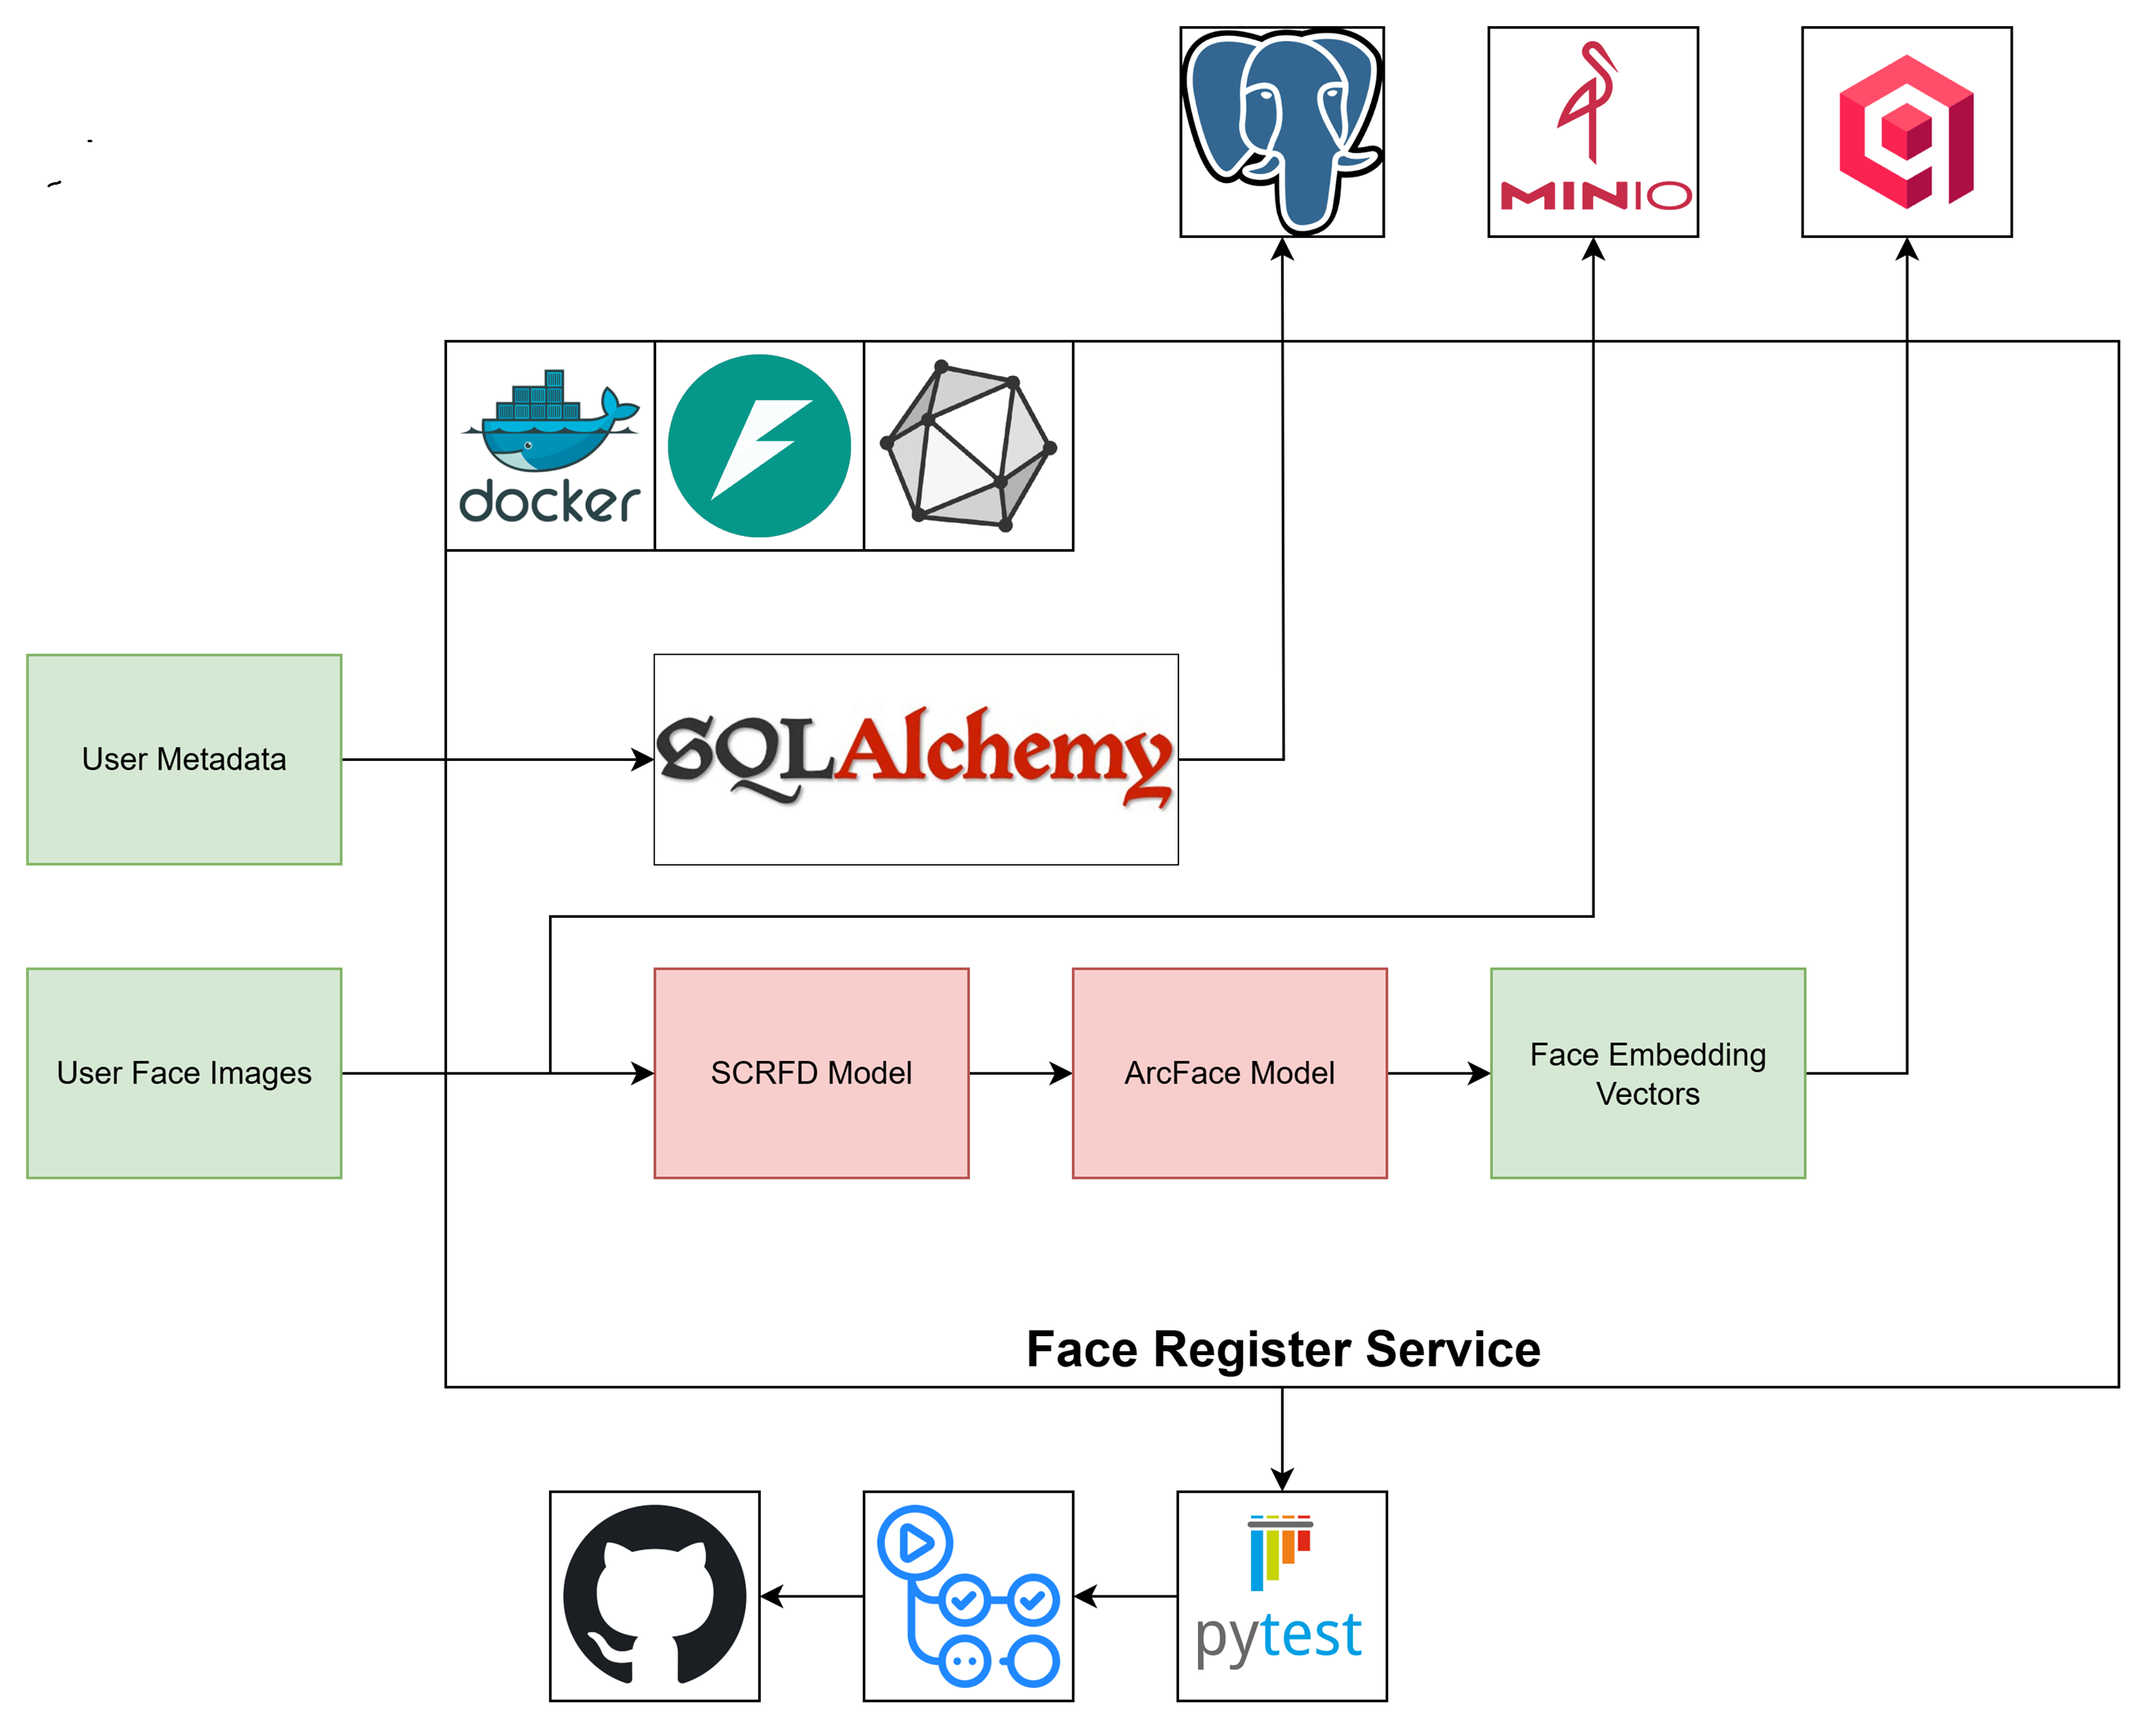
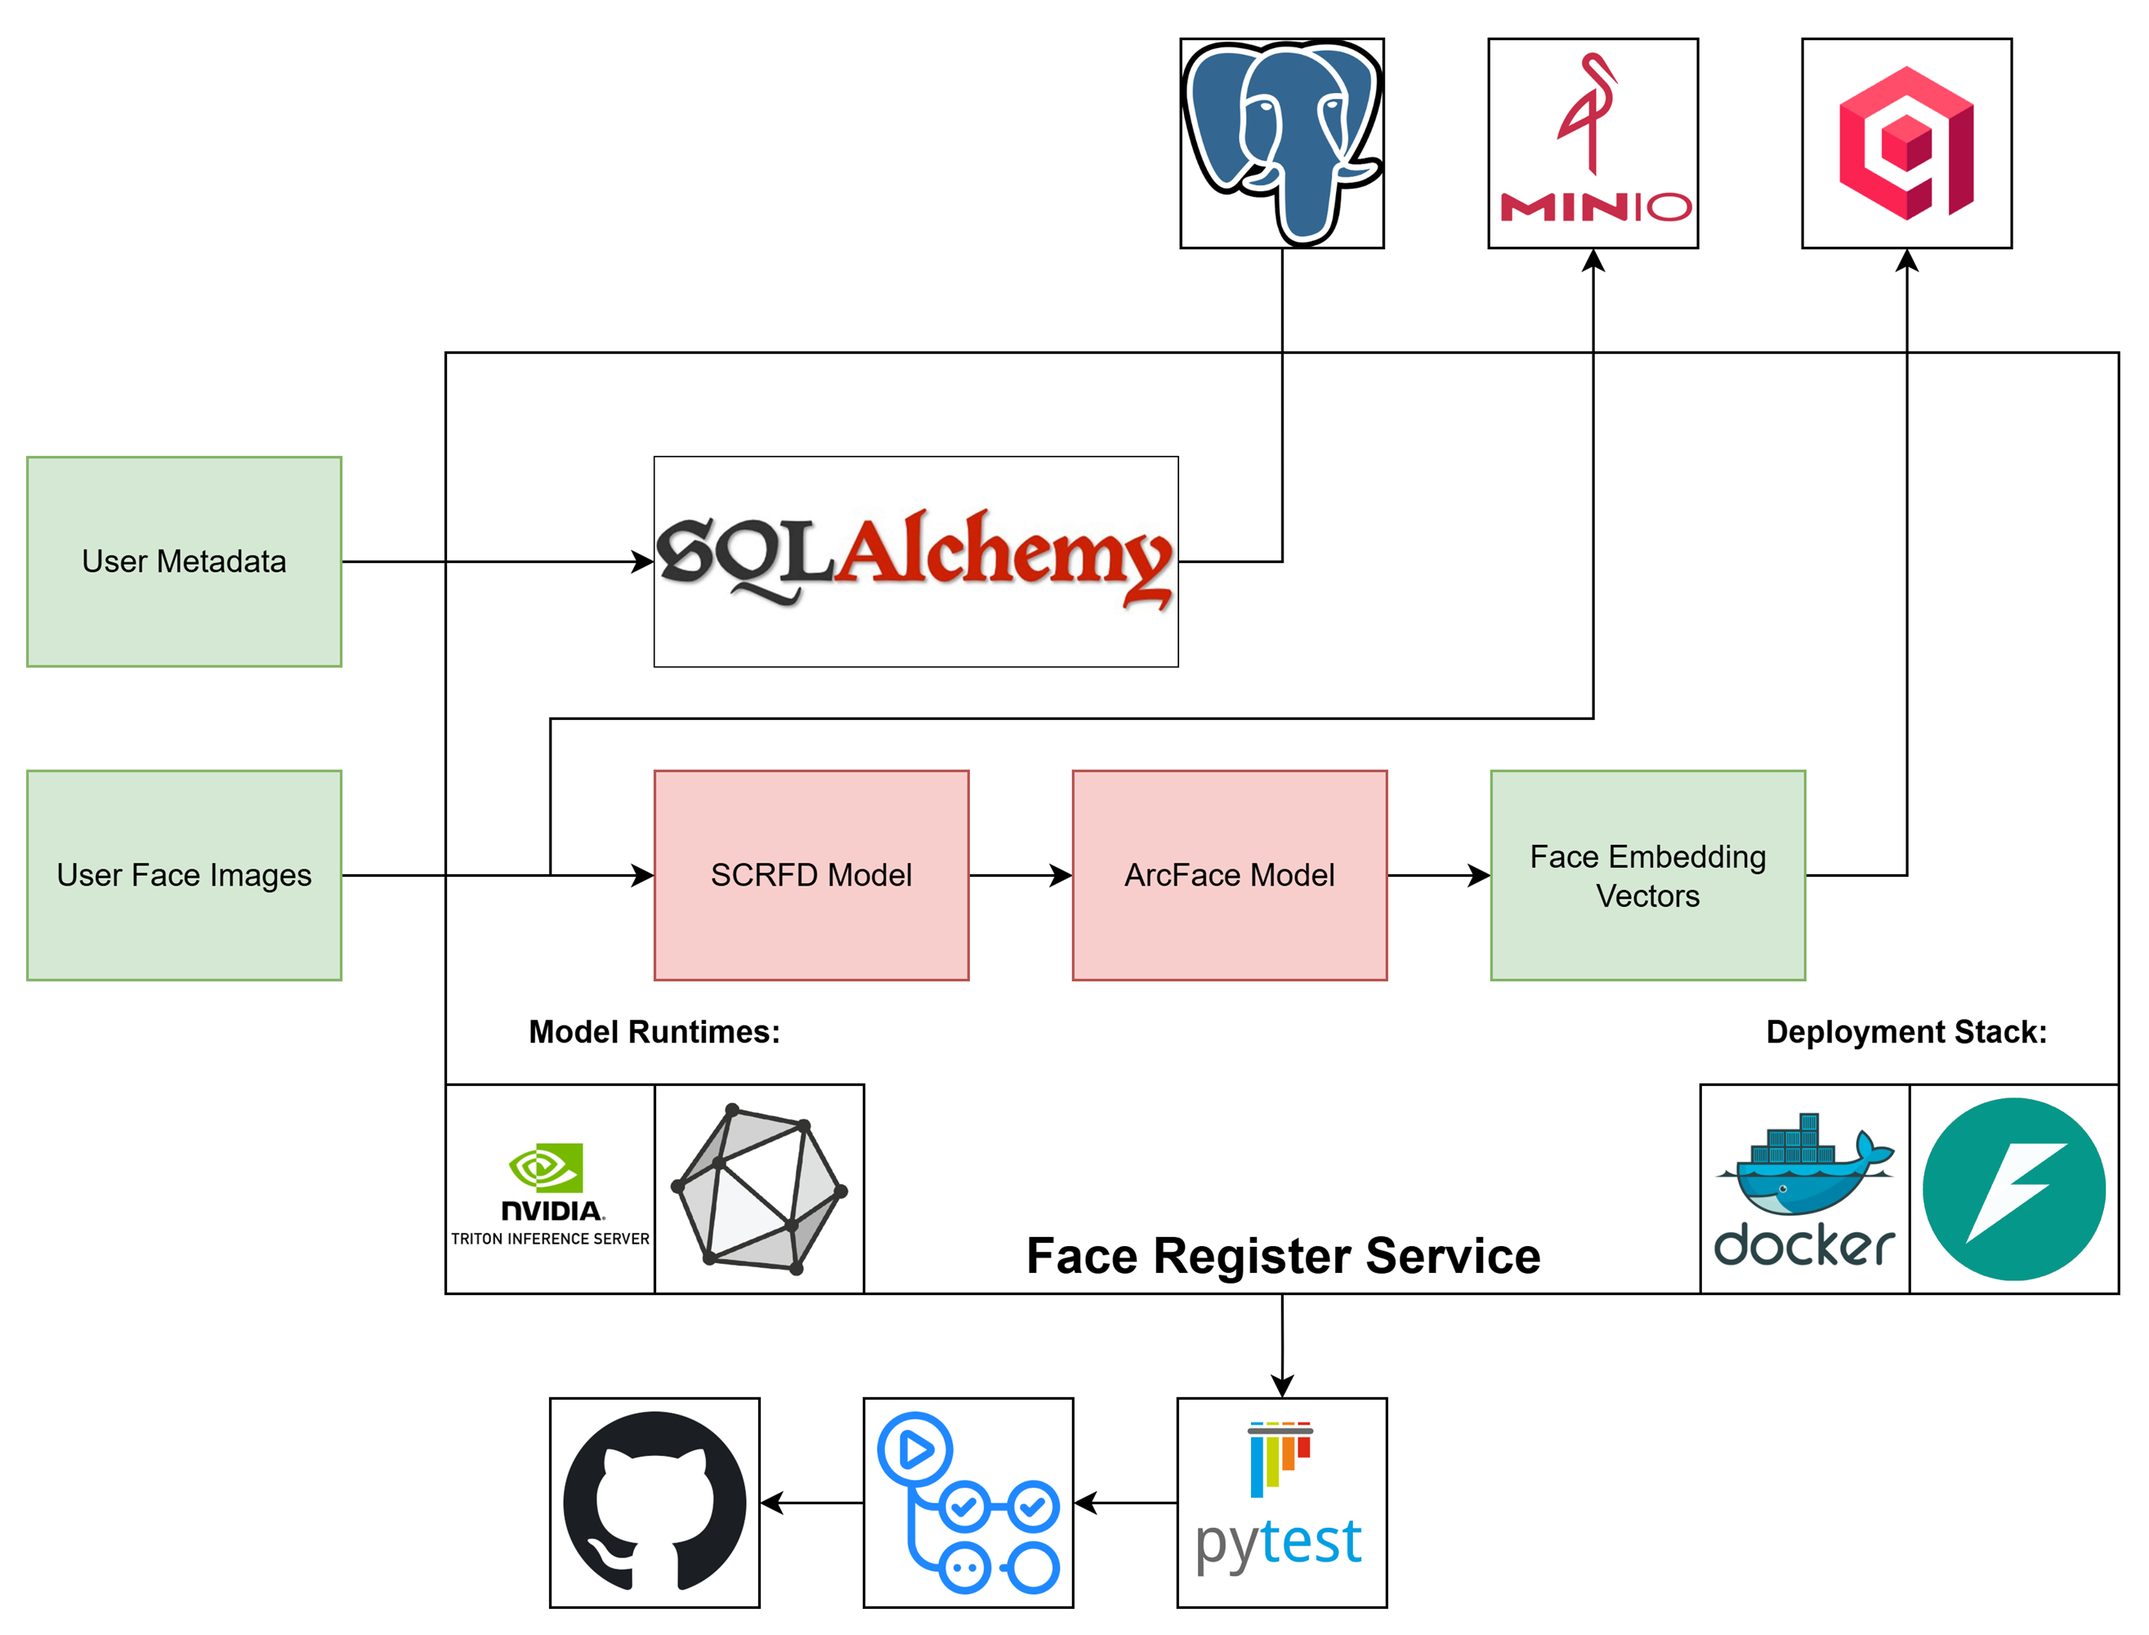
chore: update README

diff --git a/README.md b/README.md
@@ -13,7 +13,7 @@ A face registration system for capturing user metadata and storing it in the dat
 
 Face Register is a FastAPI-based application that provides:
 
-* **Face Detection & Recognition** with SCRFD + ArcFace (via ONNX Runtime)
+* **Face Detection & Recognition** with SCRFD + ArcFace (via ONNX Runtime or Triton Runtime)
 * **Face Comparison & Search** - Compare faces against database with similarity scoring
 * **User Management** with PostgreSQL + SQLAlchemy ORM
 * **Vector Search** using Qdrant
@@ -22,13 +22,14 @@ Face Register is a FastAPI-based application that provides:
 * **Testing** with Pytest
 * **Structured Logging** with custom logger
 * **Service Orchestration** using Docker & Docker Compose
+* **API Key Authentication** to secure access to the API
 
 ---
 
 ## ⚙ Technology Stack
 
 * **FastAPI** – Web framework for APIs, request handling, and docs
-* **ONNX Runtime** – Runs SCRFD (face detection) and ArcFace (embedding) models
+* **ONNX Runtime** and **NVIDIA Triton** – Runtimes for SCRFD (face detection) and ArcFace (embedding) models
 * **PostgreSQL** – Stores user profiles and metadata
 * **SQLAlchemy** – ORM for database modeling and queries
 * **Alembic** – Handles schema migrations and versioning
@@ -36,7 +37,7 @@ Face Register is a FastAPI-based application that provides:
 * **MinIO** – Stores face images and model files (S3 compatible)
 * **Qdrant** – Vector database for face embedding similarity search
 * **Custom Logger** – Structured logs with performance metrics
-* **GitHub Actions** – Runs linting, tests, and builds on push/PR
+* **GitHub Actions** – Runs linting, tests, and builds on push/PR; automates tagging, publishing Docker images to GitHub Container Registry (GHCR), generating release notes, and version bumping
 * **Docker & Docker Compose** – Containerized setup for dev/test environments
 
 ---
@@ -63,8 +64,3 @@ Face Register is a FastAPI-based application that provides:
    * MinIO Console: [http://localhost:9001](http://localhost:9001)
 
 ---
-
-## ✅ TODO
-
-* [ ] Use models from another machine
-* [ ] Add auth for API
